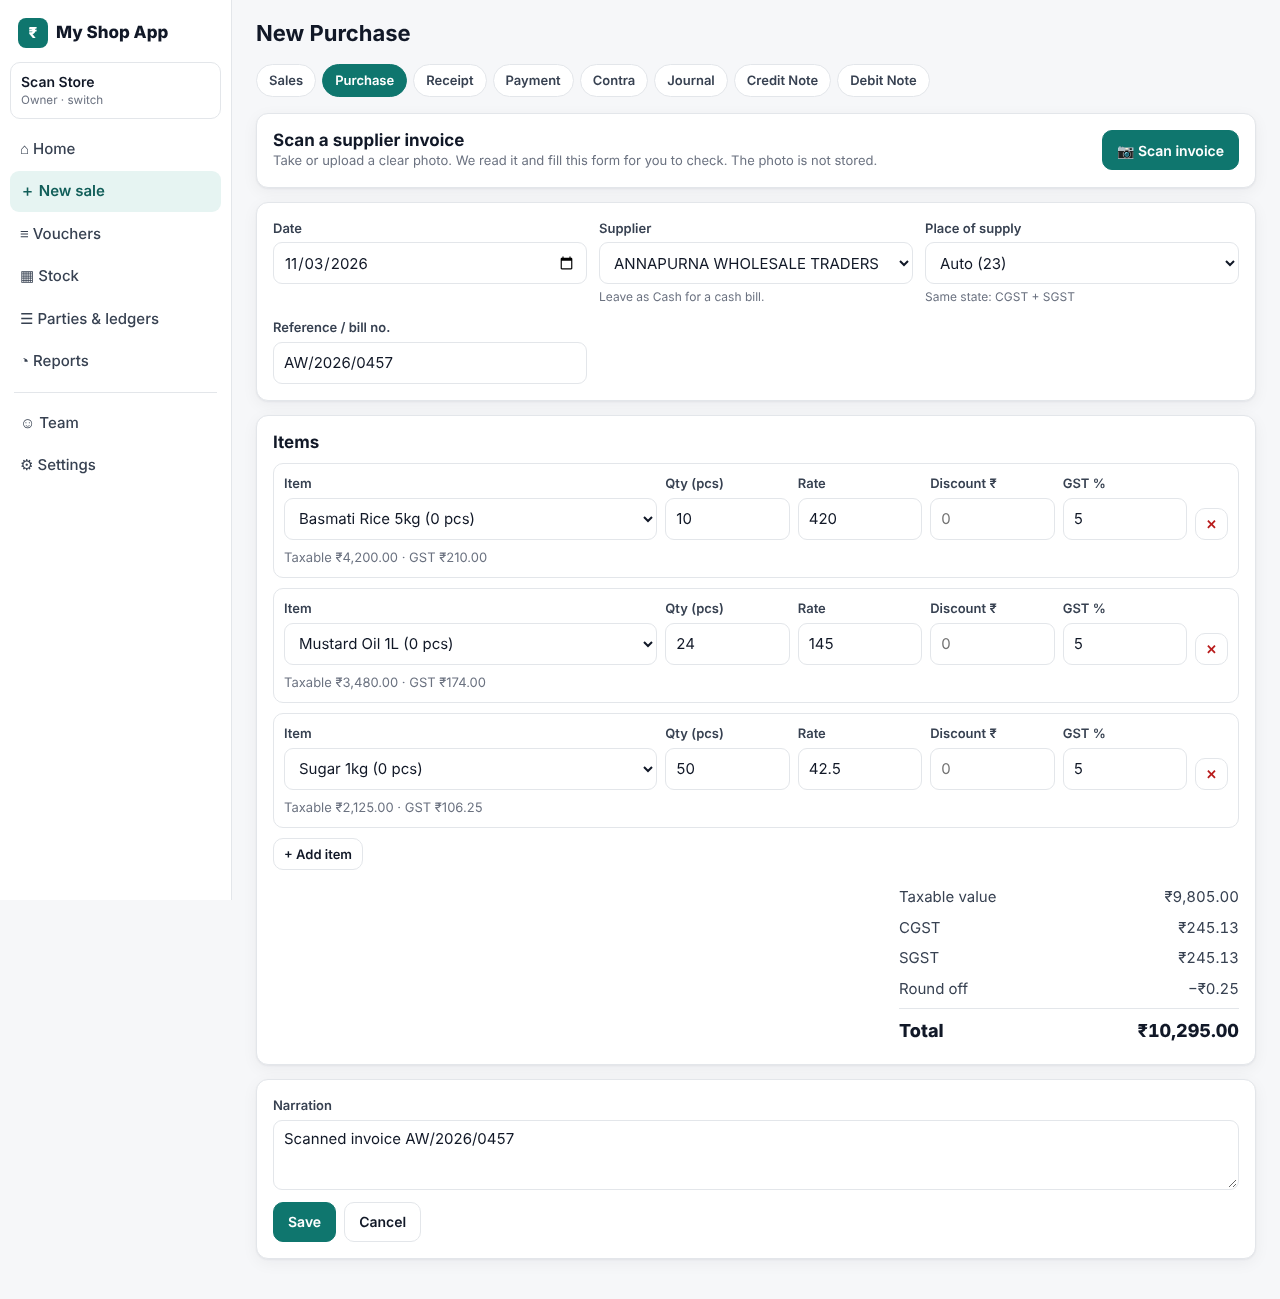
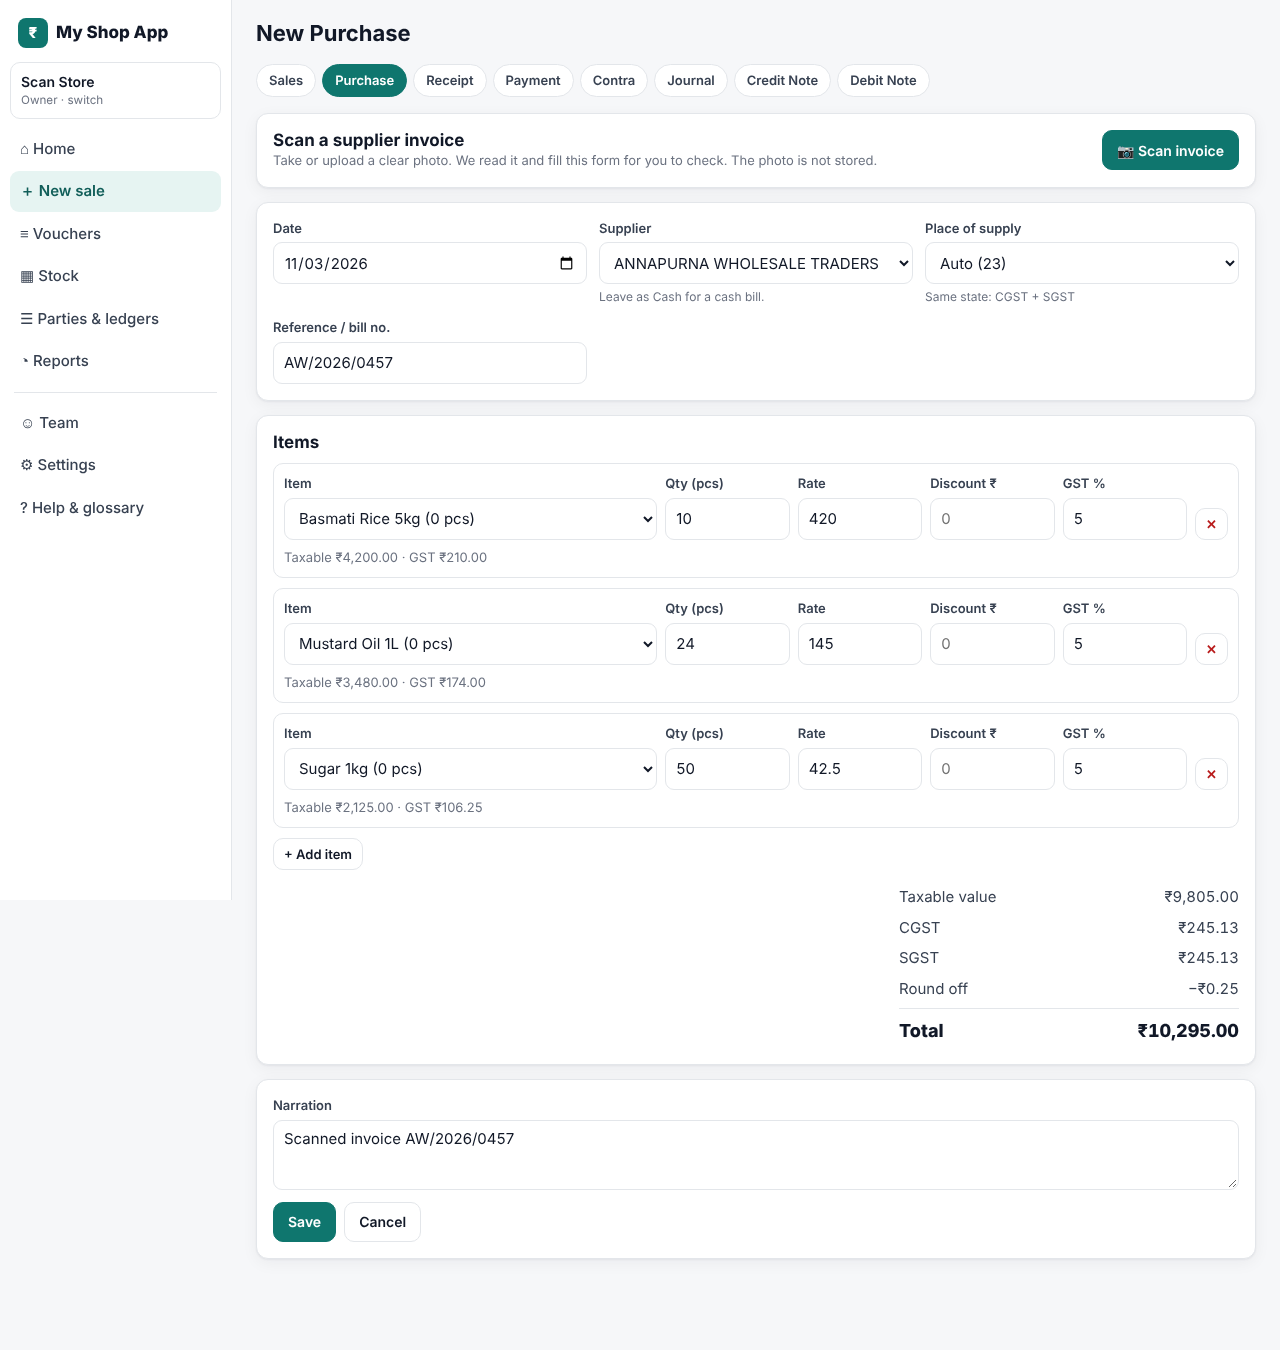
JSON backup export; docs reviewed and brought up to date
- GET /orgs/{org}/export (admin+): complete JSON backup (business, members,
  groups, ledgers, units, items, vouchers, entries, items), runs under RLS,
  audited; 'Download backup' in Settings
- Tests: export only contains the caller's business; export added to the
  role x endpoint matrix (53 passing)
- Docs reviewed for stale statements: ARCHITECTURE (corrections, exports,
  help, measured scale), ADR-0003 (password reset done), API, HANDOFF
- e2e scripts from the repo pass (UI, scan, correction, CSV); smoke 27/27;
  npm audit clean; screenshots refreshed

Claude-Session: https://claude.ai/code/session_01KakstmcvHY21AvYy6WNJfV

diff --git a/lib/services/exportData.js b/lib/services/exportData.js
@@ -1,0 +1,26 @@
+// Full backup of one business as JSON (data portability; also a safety net for owners).
+// Runs under RLS, so it can only ever contain the caller's own organization.
+import { withOrg } from '../db.js';
+import { audit } from './audit.js';
+
+const TABLES = [
+  ['organization', 'select id, name, legal_name, gstin, state_code, country, currency, address, phone, email, fy_start_month, books_from, created_at from organizations where id = app_org_id()'],
+  ['members', `select u.name, u.email, m.role, m.created_at from memberships m join users u on u.id = m.user_id where m.org_id = app_org_id() order by m.created_at`],
+  ['groups', 'select id, parent_id, name, code, nature, affects_gross_profit, is_system from account_groups order by name'],
+  ['ledgers', 'select id, group_id, name, code, opening_balance, gstin, state_code, phone, email, address, is_system, is_active, created_at from ledgers order by name'],
+  ['units', 'select id, symbol, name, decimals from units order by symbol'],
+  ['stockItems', 'select id, name, sku, unit_id, hsn_code, gst_rate, sale_price, purchase_price, reorder_level, opening_qty, opening_rate, is_active, created_at from stock_items order by name'],
+  ['vouchers', 'select id, type, fy_start, number, date, party_ledger_id, place_of_supply, reference, narration, taxable_total, tax_total, round_off, total, status, cancel_reason, cancelled_at, created_at from vouchers order by date, created_at'],
+  ['voucherEntries', 'select voucher_id, line_no, ledger_id, amount from voucher_entries order by voucher_id, line_no'],
+  ['voucherItems', 'select voucher_id, line_no, stock_item_id, description, qty, rate, discount, taxable_value, gst_rate, cgst, sgst, igst, stock_qty from voucher_items order by voucher_id, line_no'],
+];
+
+export async function exportOrganization(db) {
+  return withOrg(db, async (c) => {
+    const out = { format: 'my-shop-backup', version: 1, exportedAt: new Date().toISOString(), note: 'Amounts are decimal strings in the business currency. Debit positive, credit negative.' };
+    for (const [key, sql] of TABLES) out[key] = (await c.query(sql)).rows;
+    out.organization = out.organization[0];
+    await audit(c, db, 'org.export', 'organization', db.orgId, { vouchers: out.vouchers.length });
+    return out;
+  });
+}

diff --git a/test/isolation.test.js b/test/isolation.test.js
@@ -67,3 +67,16 @@ test('membership rows of other orgs stay hidden from org admins', async () => {
   assert.ok(!list.members.some((m) => m.userId === b.user.id));
   assert.ok(inviteMember && acceptInvitation);
 });
+
+test('backup export contains only the caller\'s own business', async () => {
+  const { exportOrganization } = await import('../lib/services/exportData.js');
+  const m = await import('../lib/services/masters.js');
+  const a = await makeUserOrg();
+  const b = await makeUserOrg();
+  const groups = await m.listGroups(b.db);
+  await m.createLedger(b.db, { name: 'B secret customer', groupId: groups.find((g) => g.code === 'sundry_debtors').id });
+  const dump = await exportOrganization(a.db);
+  assert.equal(dump.organization.id, a.org.id);
+  assert.ok(!JSON.stringify(dump).includes('B secret customer'));
+  assert.ok(dump.ledgers.length > 5 && dump.members.length === 1);
+});

diff --git a/app/o/[orgId]/settings/page.js b/app/o/[orgId]/settings/page.js
@@ -86,6 +86,14 @@ export default function Settings() {
         ))}</tbody></table></div></div>
       )}
 
+      {editable && (
+        <div className="card grid">
+          <h2>Backup</h2>
+          <p className="muted">Download everything in this business (ledgers, items, vouchers, members) as one JSON file. Keep it somewhere safe.</p>
+          <div className="row"><a className="btn" href={`/api/v1/orgs/${org.id}/export`} download>Download backup</a></div>
+        </div>
+      )}
+
       {can('org.delete') && (
         <div className="card grid">
           <h2>Delete this business</h2>

diff --git a/app/api/v1/orgs/[orgId]/export/route.js b/app/api/v1/orgs/[orgId]/export/route.js
@@ -1,0 +1,9 @@
+import { route, json } from '../../../../../../lib/http.js';
+import { exportOrganization } from '../../../../../../lib/services/exportData.js';
+
+// Owners and admins can download everything in their business as JSON.
+export const GET = route(async ({ db }) => {
+  const data = await exportOrganization(db);
+  const name = `${data.organization.name}-backup-${data.exportedAt.slice(0, 10)}.json`.replace(/[^\w.-]+/g, '-');
+  return json(data, 200, { 'content-disposition': `attachment; filename="${name}"` });
+}, { action: 'org.update' });

diff --git a/test/permissions.test.js b/test/permissions.test.js
@@ -73,6 +73,7 @@ test('every role can do exactly what its permissions allow', async () => {
     ['list vouchers', 'vouchers', 'GET', 'viewer', {}],
     ['reports', 'reports/[report]', 'GET', 'viewer', { report: 'profit-loss' }],
     ['audit log', 'audit', 'GET', 'admin', {}],
+    ['backup export', 'export', 'GET', 'admin', {}],
     ['scan text', 'ocr/parse', 'POST', 'accountant', {}, () => ({ text: 'Invoice No 1\nTotal 10' })],
   ];
 

diff --git a/docs/ARCHITECTURE.md b/docs/ARCHITECTURE.md
@@ -27,6 +27,9 @@ table in [`DATABASE.md`](DATABASE.md), and the security model in
 | GST (India) | Per-line GST rate. Intra-state → CGST + SGST; inter-state → IGST, decided from the organization's state and the place of supply. |
 | Reports | Day Book, Ledger statement, Trial Balance, Profit & Loss, Balance Sheet, Stock Summary, GST summary (outward/inward tax by rate), Outstanding receivables/payables. |
 | Audit | Every create/update/cancel is written to an append-only audit log. |
+| Corrections | "Correct" a voucher = new voucher + cancel the original in one transaction. Duplicate supplier bills refused. |
+| Exports | CSV for every report and the voucher list; full JSON backup per business. |
+| Help | Glossary and field reference inside the app (`/help`), from docs/GLOSSARY.md and docs/FIELDS.md. |
 | Invoice scanning | Photo of a supplier invoice → OCR (on phone or server) → reviewed purchase draft → purchase voucher. See [OCR.md](OCR.md). |
 | Email | Account confirmation, password reset, invitations, welcome; SMTP or Resend. See [EMAIL.md](EMAIL.md). |
 | AI (optional) | Plain-language shop summary / Q&A via Ollama, LM Studio, Groq, OpenRouter, Grok or OpenAI. See [AI.md](AI.md). |
@@ -235,6 +238,9 @@ docs/           this documentation
 per process. Phones with ML Kit do the OCR themselves and only send text. Scale OCR by running more
 processes or moving it to a worker queue.
 
+**Measured.** See [PERFORMANCE.md](PERFORMANCE.md): with 200 businesses plus one holding 30,000
+vouchers, every report stays under 0.5 s and small businesses are unaffected.
+
 **Load estimate.** 10,000 orgs × 50 vouchers/day = 500k vouchers/day ≈ 6/s average,
 maybe 60/s peak. Each voucher ≈ 1 voucher row + ~4 entries + ~3 items ≈ 1–2 KB.
 That is ~1 GB/day at the high end — fine for one Postgres for years, with
@@ -244,8 +250,8 @@ partitioning by `org_id` hash as a later option.
 behind a load balancer. Postgres scales vertically first, then read replicas for
 reports, then partitioning.
 
-**Backups.** Use a managed Postgres with point-in-time recovery. Organization owners
-can export their data (planned).
+**Backups.** Use a managed Postgres with point-in-time recovery. Owners/admins can also
+download a complete JSON backup of their business (Settings → Download backup).
 
 **Monitoring.** Structured JSON logs with request id, user id, org id, latency;
 health endpoint `/api/health` (checks DB). Alert on 5xx rate and DB connection errors.
@@ -271,7 +277,5 @@ health endpoint `/api/health` (checks DB). Alert on 5xx rate and DB connection e
 - Multi-currency, multiple godowns (warehouses), batches and expiry dates.
 - Offline-first mobile app with sync (needs conflict rules; vouchers are append-only,
   which helps).
-- Email delivery for invitations and password reset (currently the invite link is
-  shown to the inviter to share by WhatsApp/email).
 - Two-factor authentication for owners and admins.
-- Data export (Tally XML / Excel) and import.
+- Tally XML export and data import (JSON backup export and CSV report exports are done).

diff --git a/docs/HANDOFF.md b/docs/HANDOFF.md
@@ -15,8 +15,11 @@ This file lets anyone (you on your PC, or a new Claude session) continue the wor
 - CSV export for every report and the voucher list (formula-injection safe); website installable (manifest).
 - Email: SMTP/Resend/Mailpit; account verification (migration 008); invitation + welcome emails.
 - Optional AI summaries (migration 009) via Ollama, LM Studio, Groq, OpenRouter, xAI, OpenAI — docs/AI.md.
+- Field rules decided and enforced (docs/FIELDS.md); glossary (docs/GLOSSARY.md); both shown in-app at /help.
+- Scale tested: 200 businesses + one with 30,000 vouchers, all reports < 0.5 s (docs/PERFORMANCE.md).
+- JSON backup export per business (Settings → Download backup).
 - Password reset by email (Resend via env, dev logs the link); `npm run db:cleanup` for a daily cron.
-- Tests: `npm test` (50, incl. OCR on a real image, AI with a fake model server, real SMTP delivery), `npm run smoke` (27 HTTP checks incl. the mobile flow).
+- Tests: `npm test` (53, incl. role x endpoint matrix, OCR on a real image, AI with a fake model server, real SMTP delivery), `npm run smoke` (27 HTTP checks incl. the mobile flow).
 
 **Android app (`mobile/`)**
 - Expo SDK 58 app: sign in/up (+ forgot password), businesses, home, sell with exact GST preview, correct a bill, add stock items, vouchers with PDF share and
@@ -40,7 +43,7 @@ To keep going with Claude Code locally: *"Read docs/HANDOFF.md and continue with
 1. Owner decisions in docs/MANUAL_TESTING.md (package id, server URL, open sign-up, legal pages).
 2. Configure real email (docs/EMAIL.md) and test AI with your Ollama (docs/AI.md).
 4. Mobile: edit stock items, date picker, offline queue for sales, CSV share.
-5. Exports: JSON backup per business, Tally XML (CSV is done).
+5. Tally XML export; importing data from Tally/Excel (CSV and JSON backup exports are done).
 6. GST e-invoice (IRN/QR) and e-way bill.
 7. TOTP two-factor for owners/admins; list of signed-in devices.
 8. Optional cloud OCR for low-confidence scans (needs owner consent + data agreement).

diff --git a/docs/API.md b/docs/API.md
@@ -53,6 +53,7 @@ Dates are `YYYY-MM-DD`.
 | POST | `/orgs/{org}/vouchers/{id}/cancel` | accountant | `{reason}` |
 | GET | `/orgs/{org}/reports/{name}` | viewer | `dashboard, trial-balance, profit-loss, balance-sheet, day-book, stock-summary, gst-summary, outstanding (?kind=receivable|payable), ledger (?ledger=)`; `?from=&to=` |
 | GET | `/orgs/{org}/audit` | admin | `?before=&limit=` |
+| GET | `/orgs/{org}/export` | admin | complete JSON backup of the business (download) |
 | POST | `/orgs/{org}/ocr/invoice` | accountant | body = photo bytes, `Content-Type: image/jpeg` or `image/png`, ≤ 8 MB; returns a purchase draft. 60/hour per user |
 | POST | `/orgs/{org}/ai/summary` | viewer | `{period: today|week|month|fy, language: en|hi|hinglish, question?}` → `{summary, provider, model, local, namesShared}`; business must have AI on; 30/hour |
 | POST | `/orgs/{org}/ocr/parse` | accountant | `{text}` (≤ 50,000 chars) from on-device OCR; returns a purchase draft. 300/hour per user |

diff --git a/docs/adr/0003-session-auth.md b/docs/adr/0003-session-auth.md
@@ -40,11 +40,11 @@ scaling. The same token works for web and native.
 
 ## Consequences
 - Easier: "sign out everywhere", removing staff, auditing logins.
-- Harder: we own password reset and MFA (planned).
+- Harder: we own password reset (done) and MFA (planned).
 - Revisit: add TOTP 2FA for owners/admins; email verification once email sending exists.
 
 ## Action Items
 1. [x] `lib/auth/password.js` (scrypt, constant-time compare).
 2. [x] `sessions` table with hashed tokens and expiry.
 3. [x] Login throttling table and checks.
-4. [ ] Password reset by email (needs an email provider).
+4. [x] Password reset by email (docs/EMAIL.md); email verification added too.
